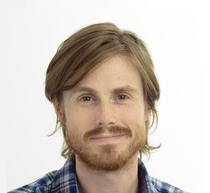
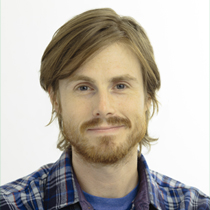
Changed photo

diff --git a/index.html b/index.html
@@ -23,7 +23,7 @@
 				<!-- Main -->
 					<section id="main">
 						<header>
-							<span class="avatar"><img src="images/avatar.jpg" alt="" /></span>
+							<span class="avatar"><img src="images/avatar3.jpg" alt="" /></span>
 							<h1>J. C. Hulcher</h1>
 							<p>Software Engineer</p>
 						</header>
